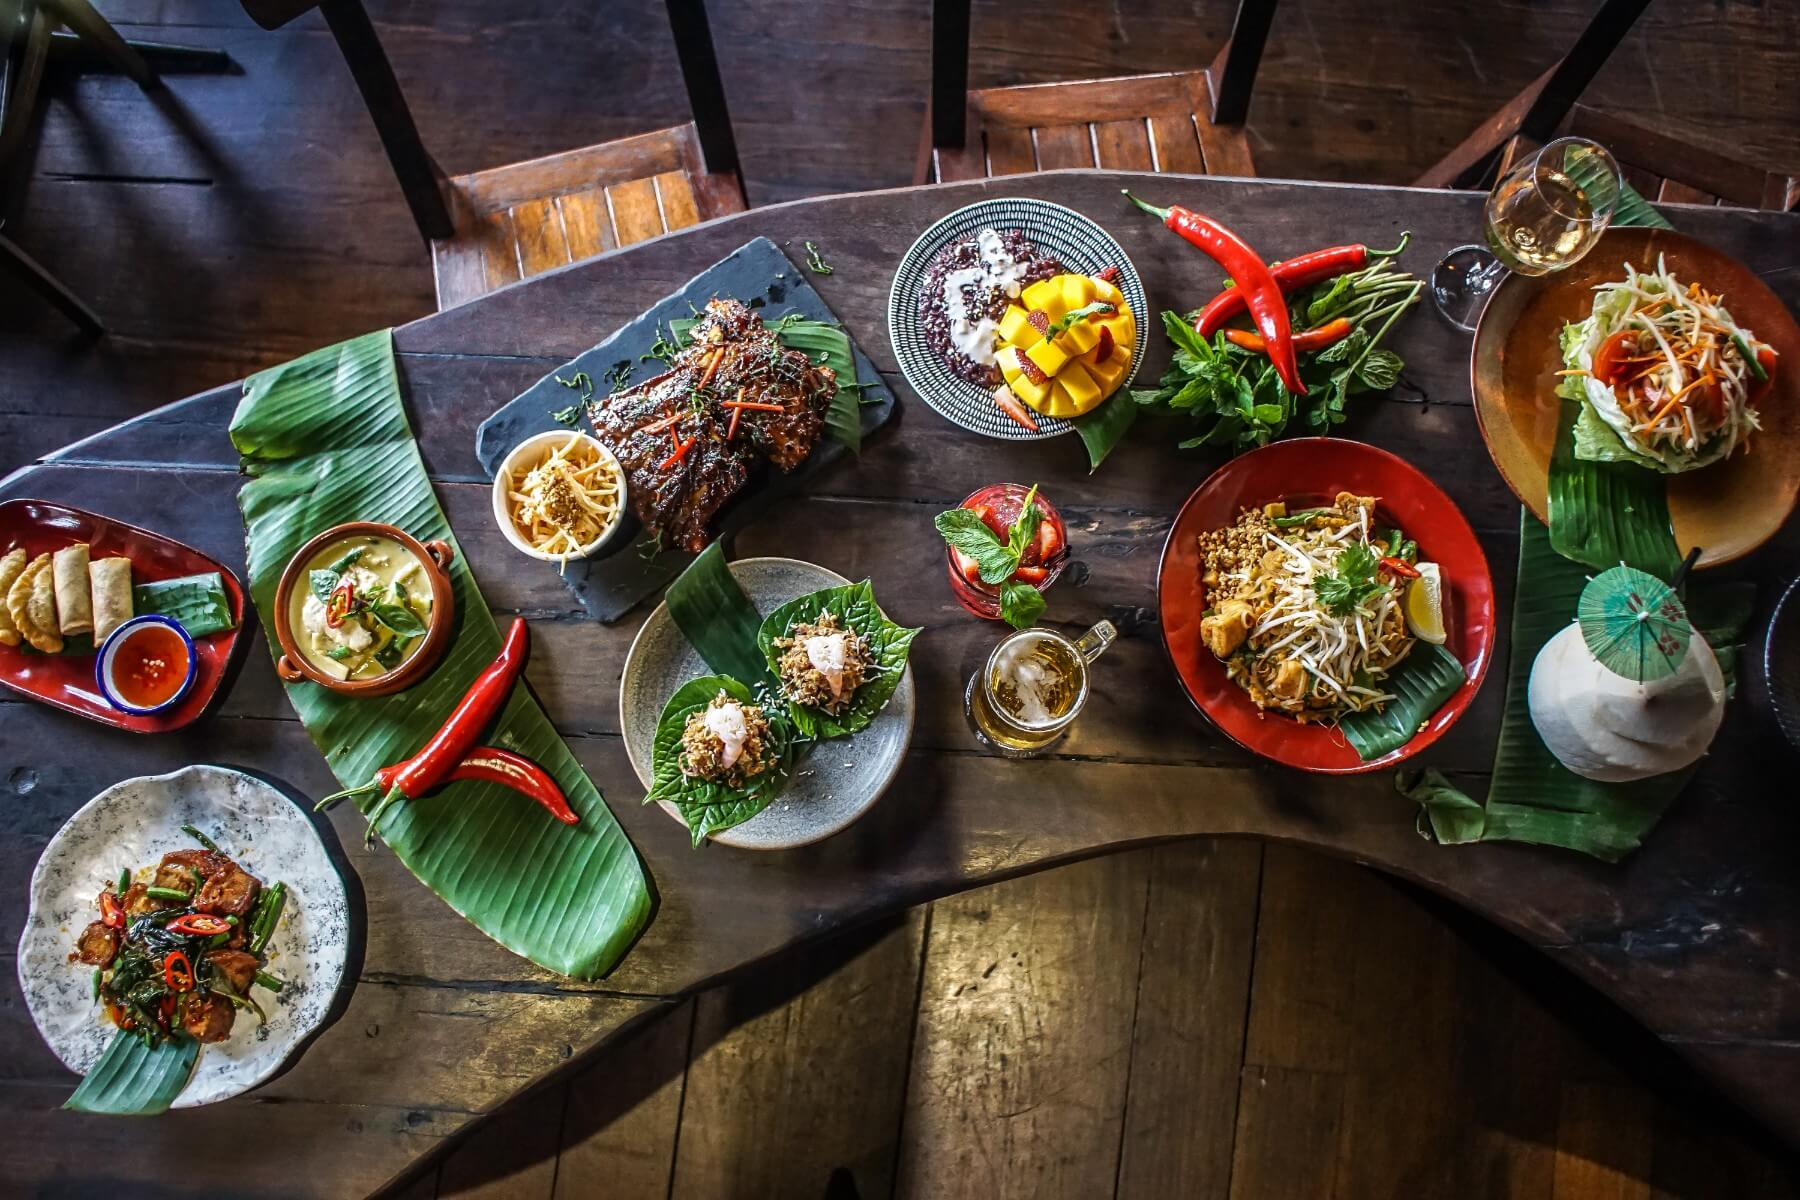
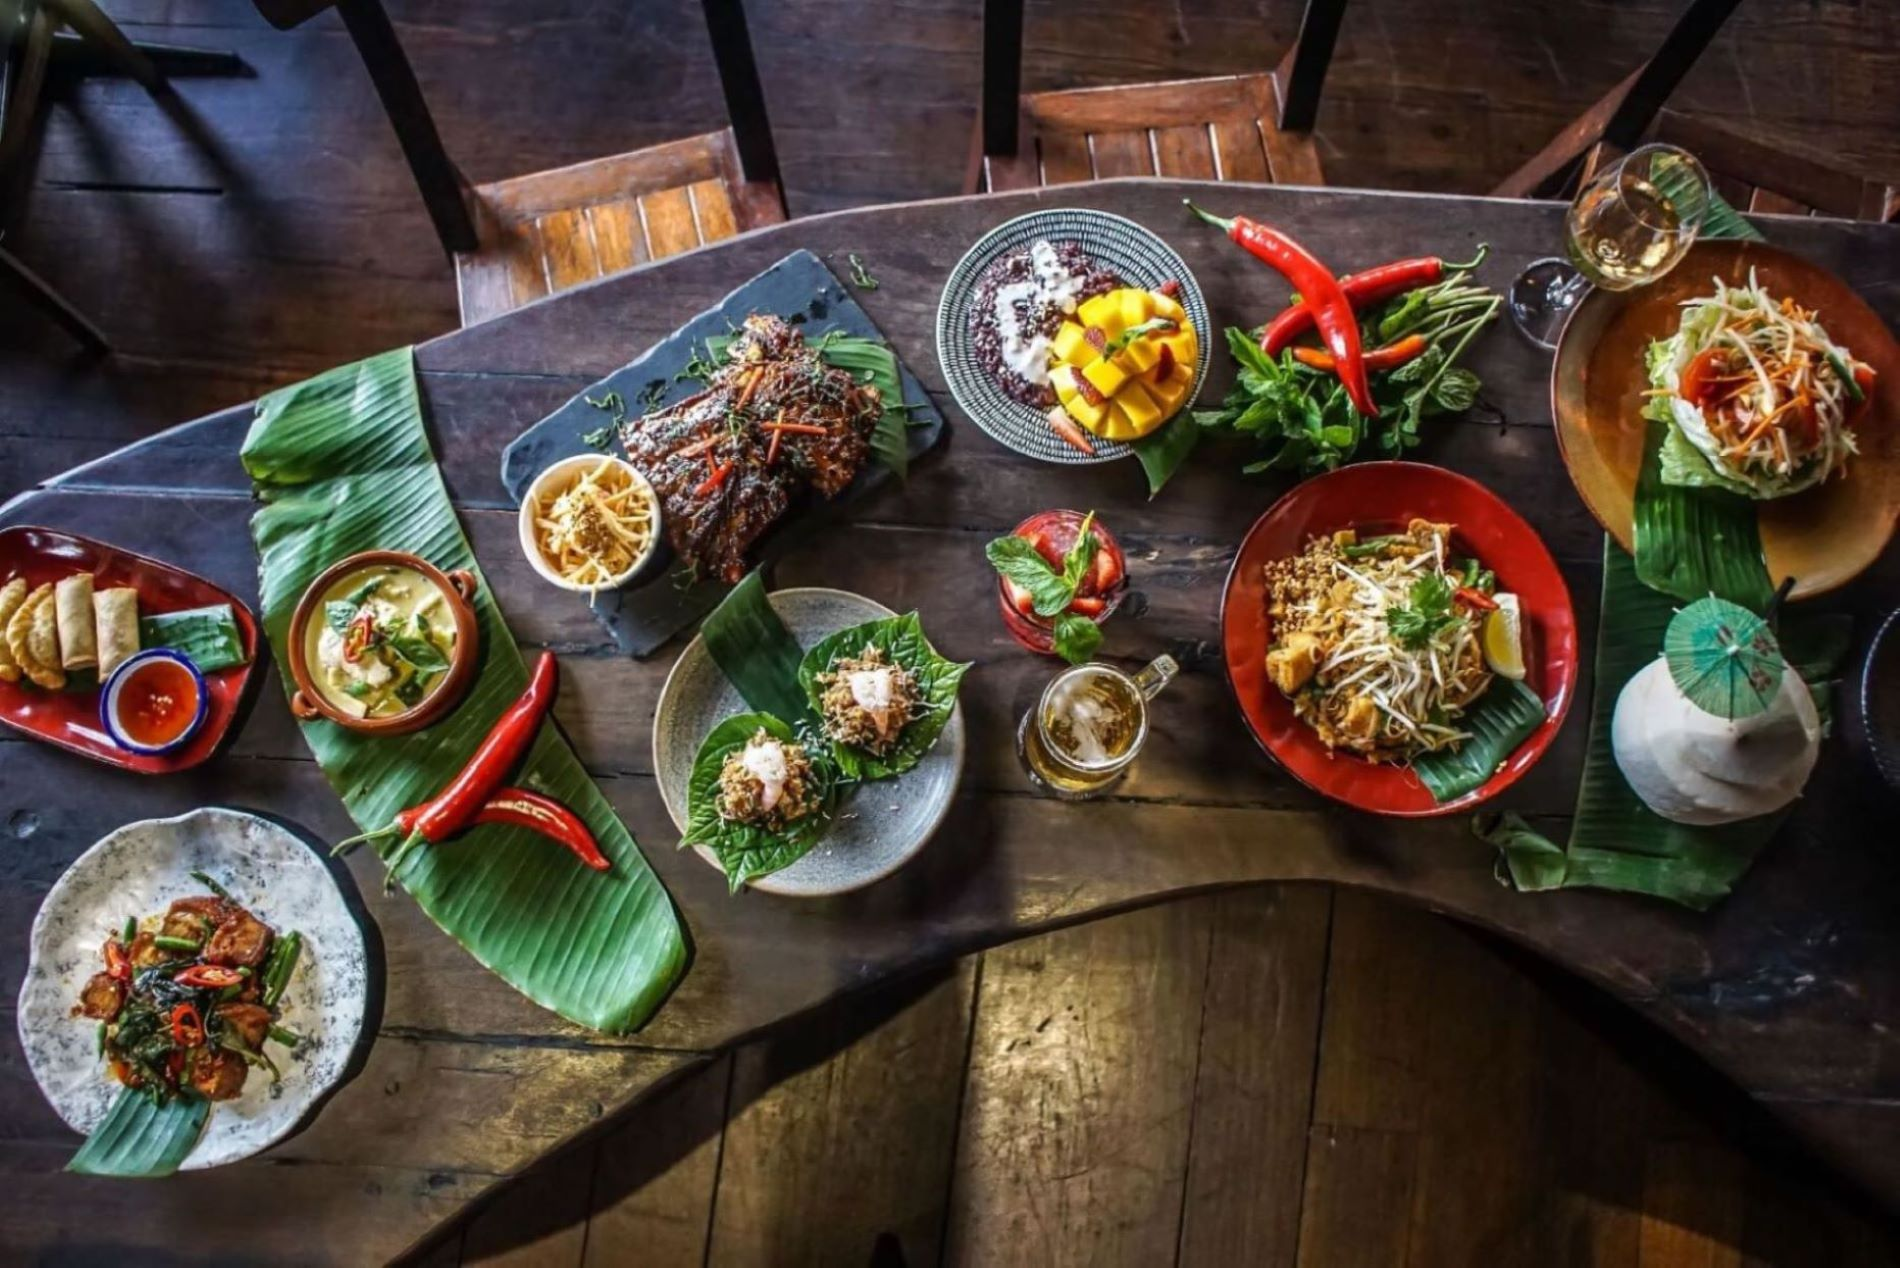
add overlay to image

diff --git a/templates/base.html b/templates/base.html
@@ -7,24 +7,28 @@
     <meta name="viewport" content="width=device-width, initial-scale=1.0">
     <link rel="stylesheet" href="https://cdn.jsdelivr.net/npm/bootstrap@4.6.1/dist/css/bootstrap.min.css">
     <link rel="shortcut icon" href="static/images/hot_chilli.jpg" type="image/x-icon">
-    <link rel="stylesheet" href="static/css/style.css">
     <script src="https://cdn.jsdelivr.net/npm/jquery@3.6.0/dist/jquery.slim.min.js"></script>
     <link rel="preconnect" href="https://fonts.googleapis.com">
     <link rel="preconnect" href="https://fonts.gstatic.com" crossorigin>
     <link href="https://fonts.googleapis.com/css2?family=Beau+Rivage&family=Updock&display=swap" rel="stylesheet">
+    <script src="https://cdn.jsdelivr.net/npm/popper.js@1.16.1/dist/umd/popper.min.js"></script>
+    <script src="https://cdn.jsdelivr.net/npm/bootstrap@4.6.1/dist/js/bootstrap.bundle.min.js"></script>
+
+    <link rel="stylesheet" href="static/css/style.css">
 
     <title>Uri's Thai Kitchen</title>
 </head>
 
 <body>
+
     <nav class="navbar navbar-expand-sm navbar-dark">
         <!-- Brand/logo -->
-        <a class="navbar-brand" href="#">
+        <a class="navbar-brand" href="{% url 'home_view' %}">
             <img src="static/images/hot_chilli.jpg" alt="logo" style="width:40px;">
         </a>
 
         <!-- Links -->
-        <ul class="navbar-nav">
+        <ul class="navbar-nav" class="col-sm-12">
             <li class="nav-item">
                 <a class="nav-link active" aria-current="page" href="{% url 'home_view' %}">HOME</a>
             </li>
@@ -37,15 +41,13 @@
         </ul>
     </nav>
 
-    <main class="flex-shrink-0 main-bg">
-        {% block content %}
-
-        {% endblock content %}
-    </main>
 
 
-    <script src="https://cdn.jsdelivr.net/npm/popper.js@1.16.1/dist/umd/popper.min.js"></script>
-    <script src="https://cdn.jsdelivr.net/npm/bootstrap@4.6.1/dist/js/bootstrap.bundle.min.js"></script>
+    {% block content %}
+
+    {% endblock content %}
+
+
 </body>
 
 </html>

diff --git a/static/css/style.css b/static/css/style.css
@@ -7,18 +7,16 @@ body {
 .navbar {
     background-color: black;
     width: 100%;
+    margin: 0px;
 }
 
 .home {
-    position: absolute;
-    display: flex;
+    position: relative;
+    padding: 0px;
     justify-content: center;
-    top: 0;
-    left: 0;
     width: 100%;
-    height: 100vh;
-    background-image: url('../images/thai-background.jpg');
-    background-size: cover;
+    height: 100%;
+    object-fit: cover;
     background-position: center, center;
     background-repeat: no-repeat;
     z-index: -1;
@@ -27,17 +25,9 @@ body {
 .color-overlay {
     width: 100%;
     height: 100%;
-    background-color: black;
-    opacity: .5;
-    position: relative;
-    z-index: -1;
-}
-
-.thai-food1 {
+    background: black;
+    opacity: .7;
     position: absolute;
-    top: 250px;
-    left: 150px;
-    z-index: 10;
 }
 
 h1 {

diff --git a/thai/templates/thai/index.html b/thai/templates/thai/index.html
@@ -4,16 +4,11 @@
 
 <div class="home">
 
-    <span>
-        <h1>Uri's Thai Kitchen</h1>
-        <h2>Authentic Thai Cuisine</h2>
-    </span>
-    <div class="color-overlay">
-        <img src="static/images/uris-kitchen-home.jpg" alt="">
-
-    </div>
-    <div class="thai-food1">
-        <img src="static/images/thai-food1.jpg" alt="">
+    <h1>Uri's Thai Kitchen</h1>
+    <h2>Authentic Thai Cuisine</h2>
+    <div class="row">
+        <div class="color-overlay" class="col-sm-12"></div>
+        <img src="static/images/uris-kitchen-home.jpg" class="img-responsive" alt="">
     </div>
 
 </div>
